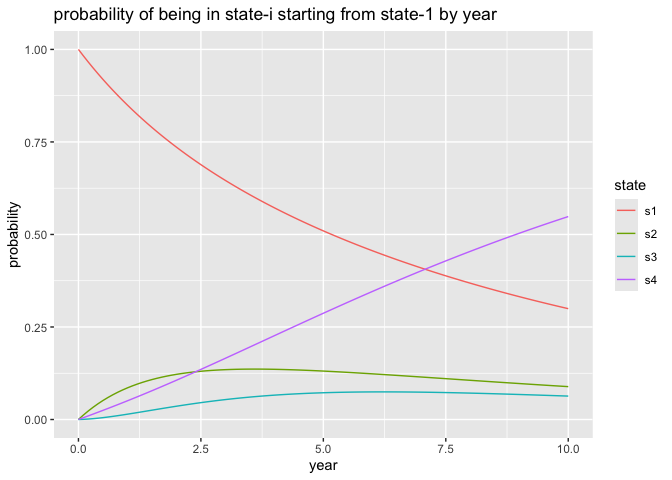
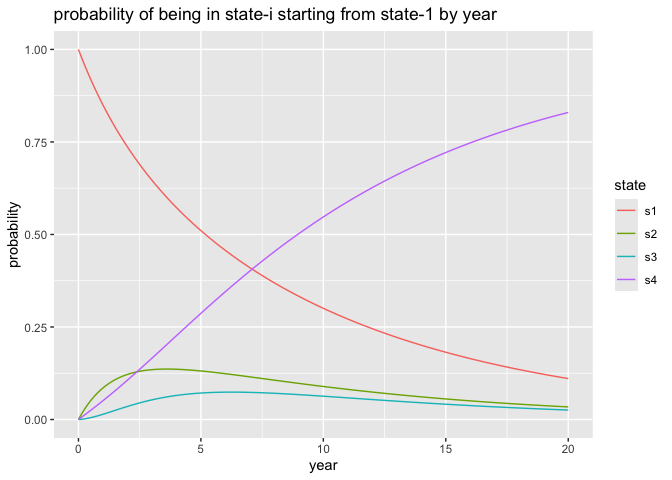
re-run with more graphs

diff --git a/mc_stan/mc_stan_Q.md b/mc_stan/mc_stan_Q.md
@@ -2,13 +2,9 @@ stan_ex
 ================
 2025-08-23
 
-Working the problem shared in: [J. Rickert, “Multistate Models for
-Medical
+Working a variation of the problem shared in: [J. Rickert, “Multistate
+Models for Medical
 Applications”](https://rviews.rstudio.com/2023/04/19/multistate-models-for-medical-applications/).
-
-Attempt at a Q solution. A different “assume no unobserved transitions”
-solution can be found
-[here](https://github.com/WinVector/Examples/blob/main/mc_stan/mc_stan.md).
 
 ``` r
 library(msm)
@@ -16,6 +12,8 @@ library(rstan)
 library(cdata)
 library(ggplot2)
 ```
+
+For this example we will leave in observed backwards transitions.
 
 ``` r
 forward_only = FALSE
@@ -183,27 +181,27 @@ res_row = colMeans(res)
 head(res)
 ```
 
-    ##        Q[1,1]    Q[2,1]      Q[3,1] Q[4,1]    Q[1,2]     Q[2,2]    Q[3,2]
-    ## 10 -0.1747797 0.2444584 0.022114062      0 0.1239382 -0.6443086 0.1011909
-    ## 12 -0.1926914 0.2268416 0.016813758      0 0.1432877 -0.6322553 0.1382339
-    ## 52 -0.1846018 0.2319540 0.019818213      0 0.1348084 -0.6289951 0.2047384
-    ## 56 -0.1736322 0.2553609 0.014757069      0 0.1259770 -0.6577024 0.1860791
-    ## 67 -0.1769937 0.2479096 0.002912616      0 0.1282249 -0.5929378 0.1473756
-    ## 76 -0.1856984 0.2749688 0.007888328      0 0.1283586 -0.6521430 0.1677132
-    ##    Q[4,2]      Q[1,3]    Q[2,3]     Q[3,3] Q[4,3]     Q[1,4]     Q[2,4]
-    ## 10      0 0.002827728 0.3090444 -0.5020005      0 0.04801382 0.09080577
-    ## 12      0 0.001605071 0.3288552 -0.4921926      0 0.04779863 0.07655847
-    ## 52      0 0.000614109 0.3189977 -0.5598363      0 0.04917934 0.07804344
-    ## 56      0 0.002429527 0.3023400 -0.5790168      0 0.04522563 0.10000155
-    ## 67      0 0.003084828 0.2564211 -0.4734320      0 0.04568390 0.08860712
-    ## 76      0 0.006534632 0.2783546 -0.5236316      0 0.05080524 0.09881956
-    ##       Q[3,4] Q[4,4]      lp__
-    ## 10 0.3786955      0 -2008.251
-    ## 12 0.3371449      0 -2009.475
-    ## 52 0.3352797      0 -2009.137
-    ## 56 0.3781807      0 -2009.313
-    ## 67 0.3231438      0 -2009.183
-    ## 76 0.3480300      0 -2009.342
+    ##        Q[1,1]    Q[2,1]     Q[3,1] Q[4,1]    Q[1,2]     Q[2,2]    Q[3,2] Q[4,2]
+    ## 6  -0.1714406 0.2238297 0.01964604      0 0.1218169 -0.6028829 0.1512067      0
+    ## 9  -0.1841702 0.2479826 0.01252220      0 0.1292913 -0.5845410 0.1134835      0
+    ## 21 -0.1744206 0.2269192 0.03861678      0 0.1208582 -0.6202168 0.1802868      0
+    ## 36 -0.1727590 0.2500679 0.01306027      0 0.1218090 -0.6350000 0.1540545      0
+    ## 41 -0.1750943 0.2334576 0.03975346      0 0.1195889 -0.6037287 0.1235047      0
+    ## 46 -0.1758434 0.2026111 0.02091855      0 0.1228458 -0.6170589 0.1415376      0
+    ##         Q[1,3]    Q[2,3]     Q[3,3] Q[4,3]     Q[1,4]     Q[2,4]    Q[3,4]
+    ## 6  0.003706417 0.2552398 -0.5047383      0 0.04591725 0.12381350 0.3338855
+    ## 9  0.004954932 0.2466969 -0.4381051      0 0.04992395 0.08986154 0.3120994
+    ## 21 0.003202988 0.3190824 -0.5941110      0 0.05035943 0.07421519 0.3752075
+    ## 36 0.001319355 0.3063326 -0.5059344      0 0.04963057 0.07859960 0.3388196
+    ## 41 0.001386301 0.2897648 -0.4914640      0 0.05411909 0.08050619 0.3282059
+    ## 46 0.000955178 0.3209921 -0.5326698      0 0.05204242 0.09345565 0.3702136
+    ##    Q[4,4]      lp__
+    ## 6       0 -2008.295
+    ## 9       0 -2009.264
+    ## 21      0 -2007.989
+    ## 36      0 -2008.323
+    ## 41      0 -2008.090
+    ## 46      0 -2009.376
 
 We now pull out an estimate of the so-called Q matrix.
 
@@ -219,11 +217,11 @@ for (i in 1:(n_states - 1)) {
 Q
 ```
 
-    ##             [,1]       [,2]       [,3]       [,4]
-    ## [1,] -0.17573062  0.1241915  0.0030183 0.04852079
-    ## [2,]  0.23297446 -0.6128267  0.2990639 0.08078832
-    ## [3,]  0.02035461  0.1444356 -0.5053547 0.34056448
-    ## [4,]  0.00000000  0.0000000  0.0000000 0.00000000
+    ##             [,1]       [,2]         [,3]       [,4]
+    ## [1,] -0.17514381  0.1234017  0.003001276 0.04874078
+    ## [2,]  0.23121619 -0.6064548  0.293778179 0.08146044
+    ## [3,]  0.02139701  0.1419968 -0.501074697 0.33768093
+    ## [4,]  0.00000000  0.0000000  0.000000000 0.00000000
 
 It is a standard argument that the probability of observing a patient
 starting in state $i$ being in state $j$ at time $t$ is then
@@ -236,9 +234,9 @@ Matrix::expm(0.1 * Q)
 
     ## 4 x 4 Matrix of class "dgeMatrix"
     ##             [,1]       [,2]         [,3]        [,4]
-    ## [1,] 0.982720988 0.01194349 0.0004696576 0.004865867
-    ## [2,] 0.022430370 0.94089943 0.0282871558 0.008383042
-    ## [3,] 0.002128799 0.01367201 0.9509252536 0.033273934
+    ## [1,] 0.982776757 0.01187157 0.0004638907 0.004887783
+    ## [2,] 0.022269891 0.94149021 0.0278019249 0.008437972
+    ## [3,] 0.002226202 0.01344902 0.9513253504 0.032999431
     ## [4,] 0.000000000 0.00000000 0.0000000000 1.000000000
 
 As is usual with exponents, the `k* 0.1` year estimate is the `k'th`
@@ -249,11 +247,11 @@ Matrix::expm(3 * 0.1 * Q) - (Matrix::expm(0.1 * Q) %*% Matrix::expm(0.1 * Q) %*%
 ```
 
     ## 4 x 4 Matrix of class "dgeMatrix"
-    ##               [,1]         [,2]          [,3]          [,4]
-    ## [1,] -3.330669e-16 6.938894e-18  0.000000e+00 -1.734723e-18
-    ## [2,]  0.000000e+00 4.440892e-16  1.387779e-17  1.387779e-17
-    ## [3,] -1.734723e-18 6.938894e-18 -2.220446e-16  0.000000e+00
-    ## [4,]  0.000000e+00 0.000000e+00  0.000000e+00  0.000000e+00
+    ##               [,1]          [,2]          [,3]          [,4]
+    ## [1,]  0.000000e+00  6.938894e-18  0.000000e+00  0.000000e+00
+    ## [2,]  6.938894e-18  2.220446e-16  1.387779e-17 -3.469447e-18
+    ## [3,] -1.734723e-18 -6.938894e-18 -2.220446e-16  0.000000e+00
+    ## [4,]  0.000000e+00  0.000000e+00  0.000000e+00  0.000000e+00
 
 Notice we have not referred to the [Kolmogorov
 equations](https://en.wikipedia.org/wiki/Kolmogorov_equations#Continuous-time_Markov_chains),
@@ -261,33 +259,35 @@ instead attempting to infer parameters that entail a Q-matrix which we
 can use to build detailed summaries.
 
 ``` r
-time_frame = data.frame(
-  year = seq(from=0, to=10, by=0.1),
-  s1 = 0,
-  s2 = 0,
-  s3 = 0,
-  s4 = 0
-  )
-for (i in 1:nrow(time_frame)) {
-  d = Matrix::expm(max(1e-6, time_frame$year[i]) * Q)  # could also just power up exp(time[1] * Q)
-  time_frame[i, 's1'] = d[1, 1]
-  time_frame[i, 's2'] = d[1, 2]
-  time_frame[i, 's3'] = d[1, 3]
-  time_frame[i, 's4'] = d[1, 4]
-}
-plot_frame = pivot_to_blocks(
-  time_frame, 
-  nameForNewKeyColumn = 'state', 
-  nameForNewValueColumn = 'probability', 
-  columnsToTakeFrom = c('s1', 's2', 's3', 's4'))
-(
-  ggplot(
-    data=plot_frame,
-    mapping=aes(x=year, y=probability, color=state)
+for (s0 in 1:3) {
+  time_frame = data.frame(
+    year = seq(from=0, to=20, by=0.1),
+    s1 = 0,
+    s2 = 0,
+    s3 = 0,
+    s4 = 0
     )
-  + geom_line()
-  + ggtitle("probability of being in state-i starting from state-1 by year")
-)
+  for (i in 1:nrow(time_frame)) {
+    d = Matrix::expm(max(1e-6, time_frame$year[i]) * Q)  # could also just power up exp(time[1] * Q)
+    time_frame[i, 's1'] = d[s0, 1]
+    time_frame[i, 's2'] = d[s0, 2]
+    time_frame[i, 's3'] = d[s0, 3]
+    time_frame[i, 's4'] = d[s0, 4]
+  }
+  plot_frame = pivot_to_blocks(
+    time_frame, 
+    nameForNewKeyColumn = 'state', 
+    nameForNewValueColumn = 'probability', 
+    columnsToTakeFrom = c('s1', 's2', 's3', 's4'))
+  print(
+    ggplot(
+      data=plot_frame,
+      mapping=aes(x=year, y=probability, color=state)
+      )
+    + geom_line()
+    + ggtitle(paste0("probability of being in state-i starting from state-", s0, " by year"))
+  )
+}
 ```
 
-![](mc_stan_Q_files/figure-gfm/unnamed-chunk-17-1.png)<!-- -->
+![](mc_stan_Q_files/figure-gfm/unnamed-chunk-17-1.png)<!-- -->![](mc_stan_Q_files/figure-gfm/unnamed-chunk-17-2.png)<!-- -->![](mc_stan_Q_files/figure-gfm/unnamed-chunk-17-3.png)<!-- -->
